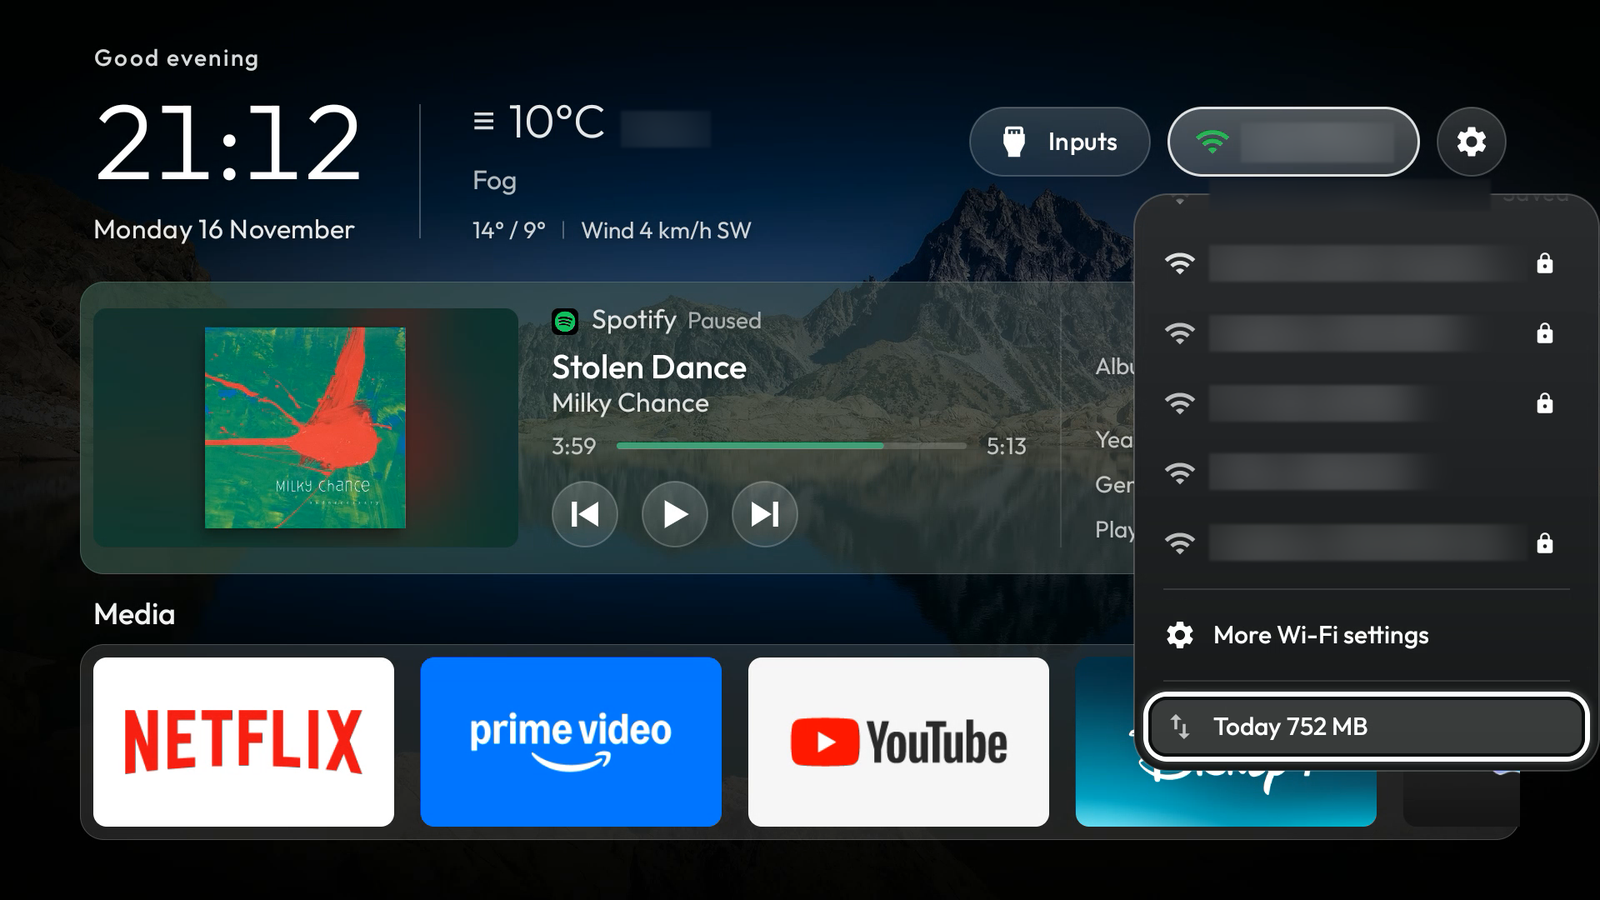
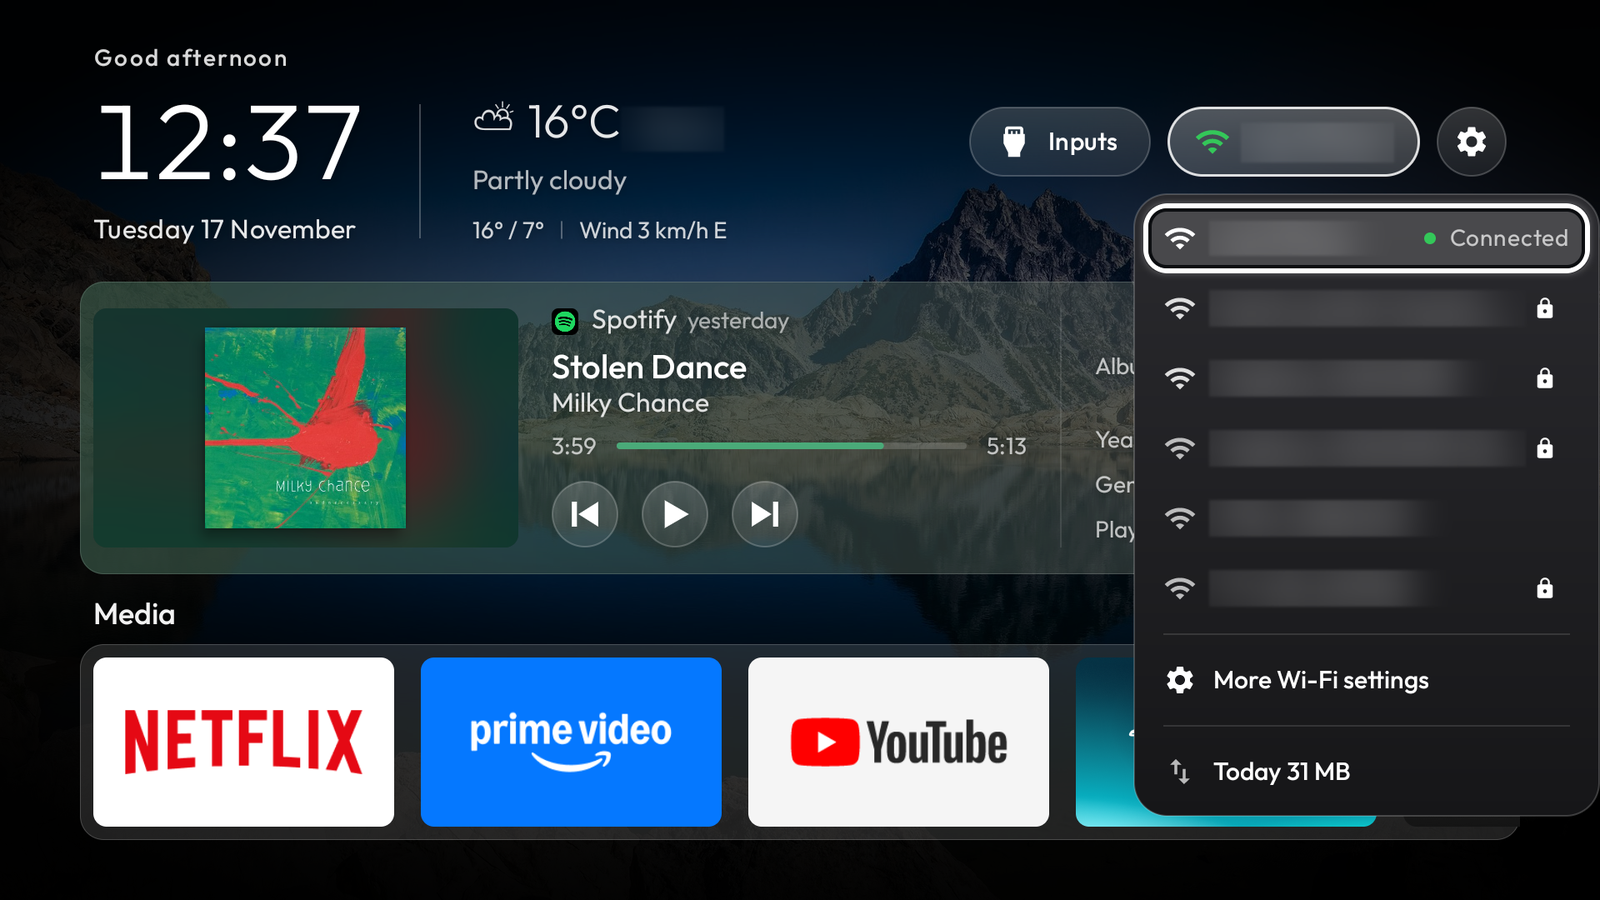
docs: Wi-Fi dropdown screenshot at its open state
The connected network is now the first row, as people see it when they open the dropdown.

diff --git a/README.md b/README.md
@@ -71,7 +71,7 @@ is rejected. The pill's icon is green when the internet works, orange while it i
 network.
 
 <p align="center">
-  <img src="docs/media/wifi-dropdown.png" alt="The Wi-Fi dropdown open under the Wi-Fi pill, with more networks than fit on screen: the list is scrolled to its end, so the first rows have slid up under the top edge, and five nearby networks show signal bars, four of them a lock; below a divider, More Wi-Fi settings, and at the bottom the focused data row, Today 752 MB. Network names are blurred" width="800">
+  <img src="docs/media/wifi-dropdown.png" alt="The Wi-Fi dropdown open under the Wi-Fi pill: the connected network at the top with a green dot and Connected, focused, then five nearby networks with signal bars, four of them a lock; below a divider, More Wi-Fi settings, and at the bottom the data row, Today 31 MB. Network names are blurred" width="800">
 </p>
 
 Turning Wi-Fi on and joining a saved network take a small helper app, because Android 11 allows that only to apps

diff --git a/docs/guide.md b/docs/guide.md
@@ -186,7 +186,7 @@ default the row starts from.
 ## Wi-Fi, hotspots and the data counter
 
 <p align="center">
-  <img src="media/wifi-dropdown.png" alt="The Wi-Fi dropdown open under the Wi-Fi pill, with more networks than fit on screen: the list is scrolled to its end, so the first rows have slid up under the top edge, and five nearby networks show signal bars, four of them a lock; below a divider, More Wi-Fi settings, and at the bottom the focused data row, Today 752 MB" width="800">
+  <img src="media/wifi-dropdown.png" alt="The Wi-Fi dropdown open under the Wi-Fi pill: the connected network at the top with a green dot and Connected, focused, then five nearby networks with signal bars, four of them a lock; below a divider, More Wi-Fi settings, and at the bottom the data row, Today 31 MB" width="800">
 </p>
 
 <p align="center"><sub>Network names blurred.</sub></p>
